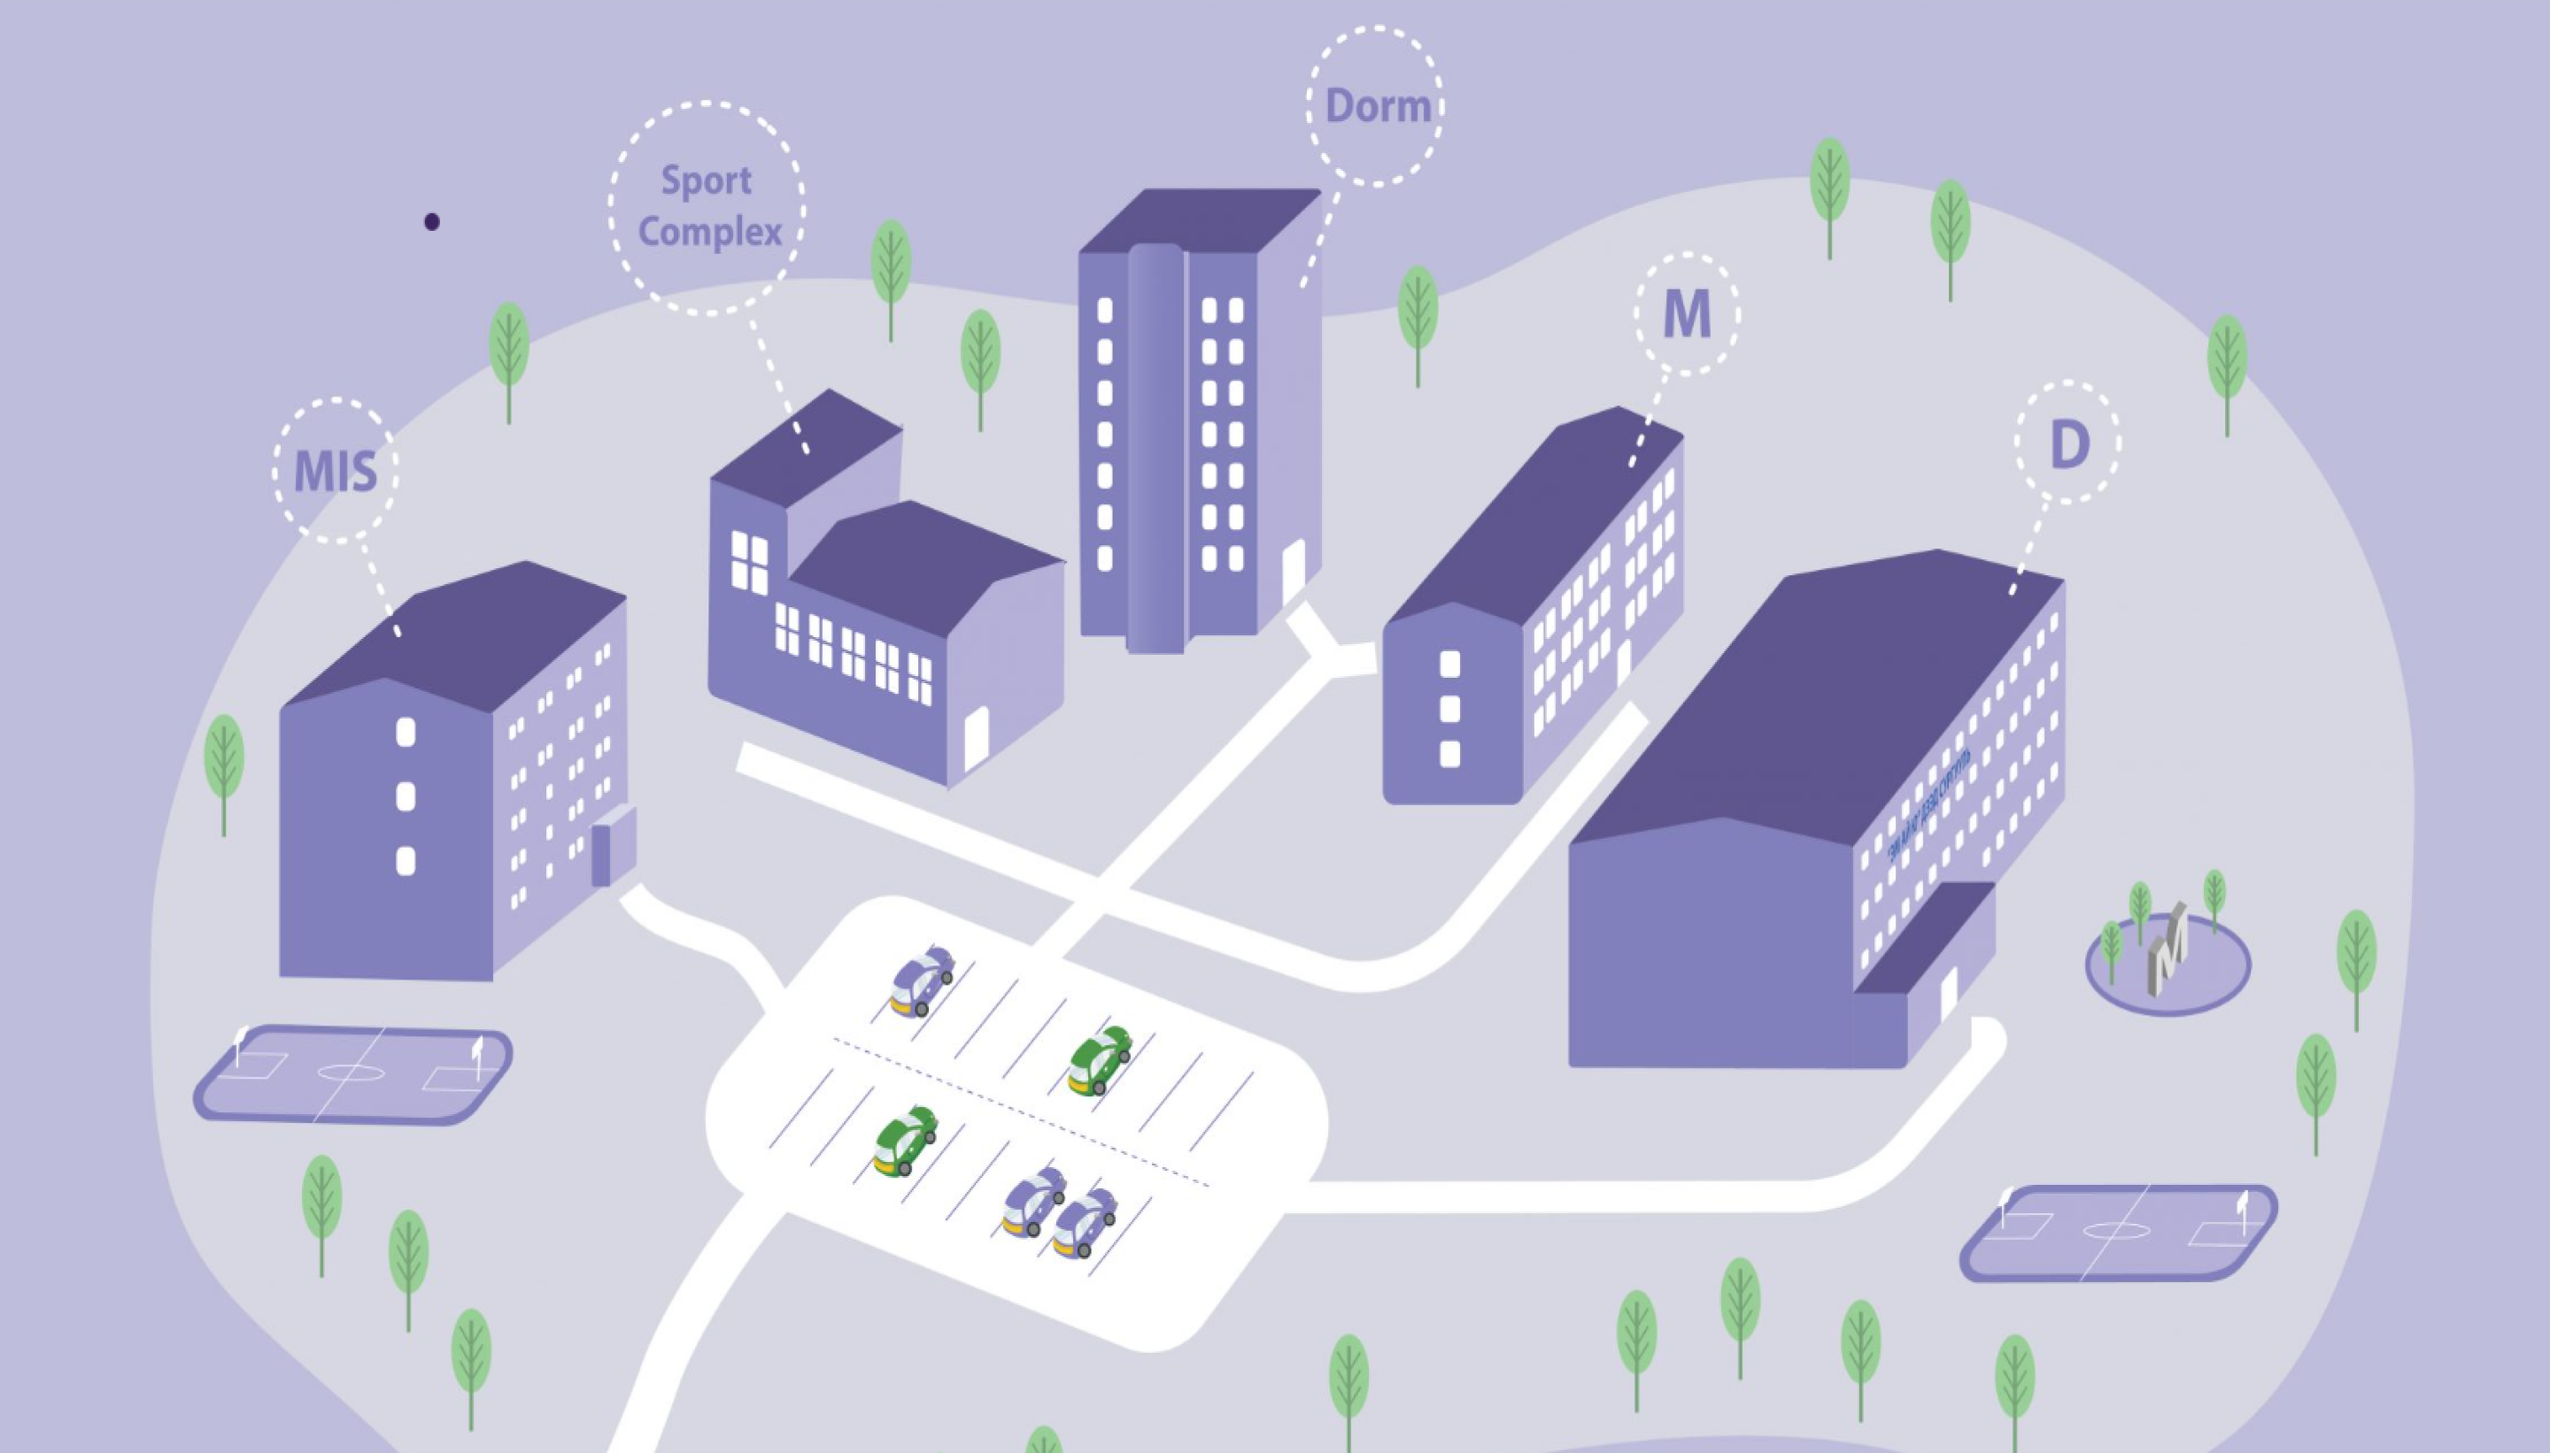
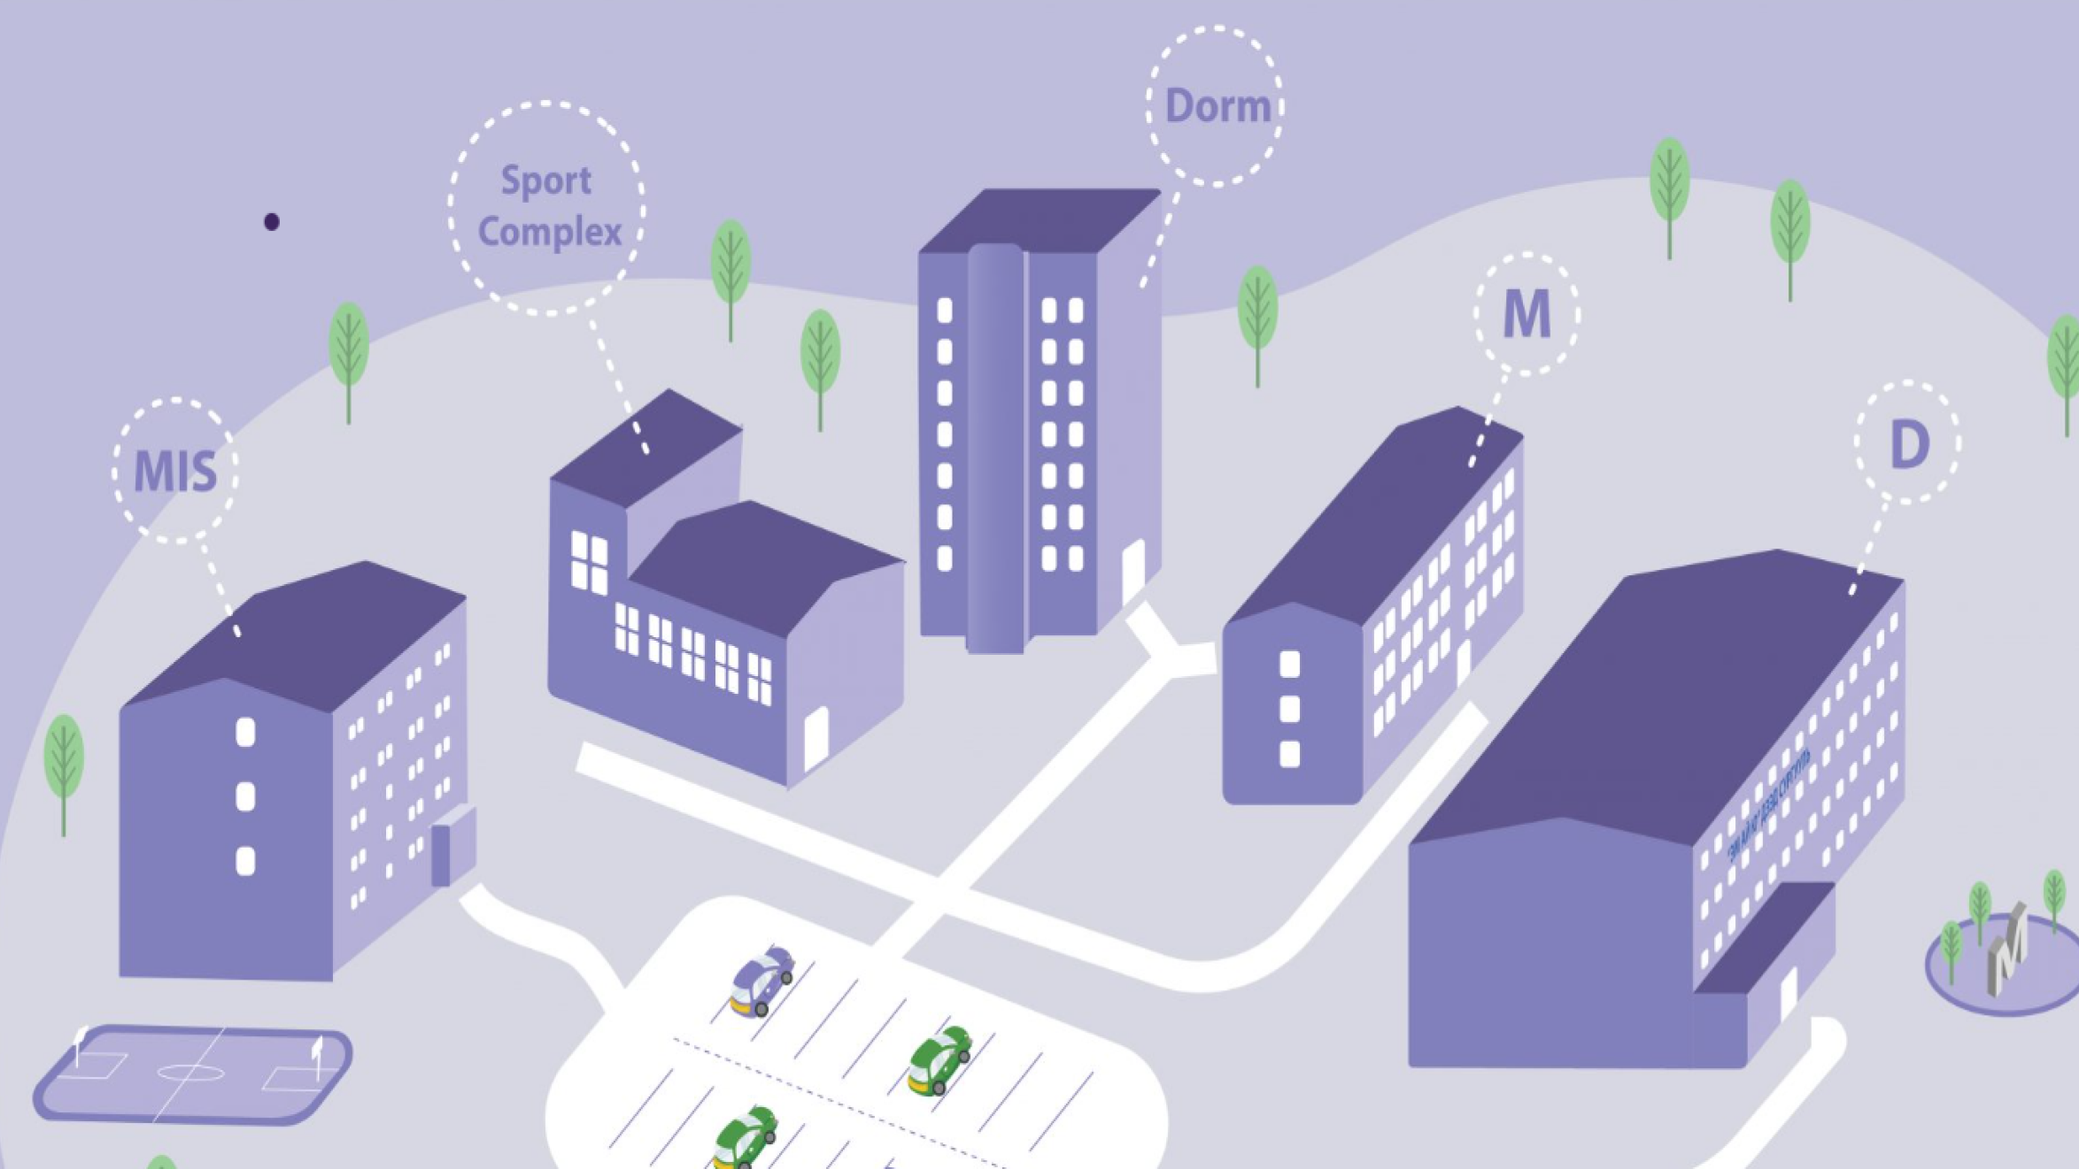
fix: map

diff --git a/src/components/Map.jsx b/src/components/Map.jsx
@@ -1,10 +1,9 @@
 import React from "react";
-import { StyleSheet, View, Image, Pressable } from "react-native";
+import { StyleSheet, View, Image, Pressable, Dimensions } from "react-native";
 import HoverCard from "./hoverCard";
 
 export default function MapComponent() {
   const [activeCard, setActiveCard] = React.useState(null);
-  //const [isHoveringCard, setIsHoveringCard] = React.useState(false);
 
   const showCardHandler = (cardId) => {
     setActiveCard(cardId);
@@ -14,159 +13,153 @@ export default function MapComponent() {
       setActiveCard(null);
     
   };
+  const windowWidth = Dimensions.get("window").width;
+  const imageHeight = (600 / 1075) * windowWidth;
 
   return (
-    <View >
-      <Image
-        source={require("../../assets/images/map.png")}
-        style={styles.image}
-      />
+      <View style={[styles.imageContainer, {width: windowWidth, height: imageHeight}]}>
+        <Image
+          source={require("../../assets/images/map.png")}
+          style={[styles.image, {height: imageHeight}]}
+          resizeMode="contain"
+        />
 
-      <Pressable
-        style={styles.overlay1}
-        onMouseEnter={() => showCardHandler(1)}
-        onMouseLeave={hideCardHandler}
-      >
-        {activeCard === 1 && (
-          <View style={styles.sport}>
-            <HoverCard
-              image={require("../../assets/images/sports.png")}
-              type={"Sport"}
-              title={"Sport Complex"}
-              button={"For More Information"}
-            >
-              The sports complex is a three-floor building currently featuring
-              a large indoor sports hall and cross-fit style gym.
-              {"\n \n \n \n"}
-              Schedule: Monday 4:00 - 6:00 pm
-              {"\n                     "}
-              Wednesday 4:00 - 6:00 pm
-              {"\n                     "}
-              Friday 4:00 - 6:00 pm
-              {"\n                     "}
+        <Pressable
+          style={[styles.overlay, styles.overlay1]}
+          onMouseEnter={() => showCardHandler(1)}
+          onMouseLeave={hideCardHandler}
+        >
+          {activeCard === 1 && (
+            <View style={styles.sport}>
+              <HoverCard
+                image={require("../../assets/images/sports.png")}
+                type={"Sport"}
+                title={"Sport Complex"}
+                button={"For More Information"}
+              >
+                The sports complex is a three-floor building currently featuring
+                a large indoor sports hall and cross-fit style gym.
+                {"\n \n \n \n"}
+                Schedule: Monday 4:00 - 6:00 pm
+                {"\n                     "}
+                Wednesday 4:00 - 6:00 pm
+                {"\n                     "}
+                Friday 4:00 - 6:00 pm
+                {"\n                     "}
+              </HoverCard>
+            </View>
+          )}
+        </Pressable>
+
+        <Pressable
+          style={[styles.overlay, styles.overlay2]}
+          onMouseEnter={() => showCardHandler(2)}
+          onMouseLeave={hideCardHandler}
+        >
+          {activeCard === 2 && (
+            <View style={styles.dorm}>
+              <HoverCard
+                image={require("../../assets/images/dorm.png")}
+                type={"Primary"}
+                title={"Dorm"}
+                button={"For More Information"}
+                button2={"Dormitory Fee"}
+              >
+                The MIU Global Residence is a seven-floor building that houses
+                both male and female students from all over the world. The first
+                four floors are dedicated to students and the 5th to 7th floors
+                are occupied by faculty and staff members. MIU Global Residence
+                a unique residence hall that offers affordable, newly furnished,
+                safe, and convenient living quarters for students. 
+              </HoverCard>
+            </View>
+          )}
+        </Pressable>
+
+        <Pressable
+          style={[styles.overlay, styles.overlay3]}
+          onMouseEnter={() => showCardHandler(3)}
+          onMouseLeave={hideCardHandler}
+        >
+          {activeCard === 3 && (
+            <View style={styles.mbld}>
+              <HoverCard
+                image={require("../../assets/images/M-bld.png")}
+                type={"Secondary"}
+                title={"M Building"}
+                button={"For More Information"}
+              >
+                Student affairs - Academic - Admission - Finance - President`s office
+                {"\n\n\n\n\n"}
+                M building texts, LEI, offices
+              </HoverCard>
+            </View>
+          )}
+        </Pressable>
+
+        <Pressable
+          style={[styles.overlay, styles.overlay4]}
+          onMouseEnter={() => showCardHandler(4)}
+          onMouseLeave={hideCardHandler}
+        >
+          {activeCard === 4 && (
+            <View style={styles.dbld}>
+              <HoverCard
+              image={require("../../assets/images/D-bld.png")}
+              type={'Secondary'}
+              title={"D building"}
+              button={"For More Information"}>
+              The MIU Global Residence is a seven-floor building that houses both 
+              male and female students from all over the world. The first four 
+              floors are dedicated to students and the 5th to 7th floors are 
+              occupied by faculty and staff members. MIU Global Residence a unique 
+              residence hall that offers affordable, newly furnished, safe, and convenient 
+              living quarters for students.
             </HoverCard>
-          </View>
-        )}
-      </Pressable>
-
-      <Pressable
-        style={styles.overlay2}
-        onMouseEnter={() => showCardHandler(2)}
-        onMouseLeave={hideCardHandler}
-      >
-        {activeCard === 2 && (
-          <View style={styles.dorm}>
-            <HoverCard
-              image={require("../../assets/images/dorm.png")}
-              type={"Primary"}
-              title={"Dorm"}
-              button={"For More Information"}
-              button2={"Dormitory Fee"}
-            >
-              The MIU Global Residence is a seven-floor building that houses
-              both male and female students from all over the world. The first
-              four floors are dedicated to students and the 5th to 7th floors
-              are occupied by faculty and staff members. MIU Global Residence
-              a unique residence hall that offers affordable, newly furnished,
-              safe, and convenient living quarters for students. 
-            </HoverCard>
-          </View>
-        )}
-      </Pressable>
-
-      <Pressable
-        style={styles.overlay3}
-        onMouseEnter={() => showCardHandler(3)}
-        onMouseLeave={hideCardHandler}
-      >
-        {activeCard === 3 && (
-          <View style={styles.mbld}>
-            <HoverCard
-              image={require("../../assets/images/M-bld.png")}
-              type={"Secondary"}
-              title={"M Building"}
-              button={"For More Information"}
-            >
-              Student affairs - Academic - Admission - Finance - President`s office
-              {"\n\n\n\n\n"}
-              M building texts, LEI, offices
-            </HoverCard>
-          </View>
-        )}
-      </Pressable>
-
-      <Pressable
-        style={styles.overlay4}
-        onMouseEnter={() => showCardHandler(4)}
-        onMouseLeave={hideCardHandler}
-      >
-        {activeCard === 4 && (
-          <View style={styles.dbld}>
-            <HoverCard
-            image={require("../../assets/images/D-bld.png")}
-            type={'Secondary'}
-            title={"D building"}
-            button={"For More Information"}>
-            The MIU Global Residence is a seven-floor building that houses both 
-            male and female students from all over the world. The first four 
-            floors are dedicated to students and the 5th to 7th floors are 
-            occupied by faculty and staff members. MIU Global Residence a unique 
-            residence hall that offers affordable, newly furnished, safe, and convenient 
-            living quarters for students.
-          </HoverCard>
-          </View>
-        )}
-      </Pressable>
-    </View>
+            </View>
+          )}
+        </Pressable>
+      </View>
   );
 }
 
 const styles = StyleSheet.create({
-  container: {
+  imageContainer:{
     flex: 1,
-    backgroundColor: "gray",
     alignItems: "center",
-    justifyContent: "center",
   },
   image: {
-    width: "100%",
-    height: 821,
+    width: '100%',
+  },
+  overlay: {
+    position: "absolute",
+    borderRadius: 10,
+    borderWidth: 1
   },
   overlay1: {
-    //borderWidth: 1,
-    width: 241,
-    height: 214,
-    borderRadius: 10,
-    position: "absolute",
-    marginLeft: 265,
-    marginTop: 45,
+    width: '15%',
+    height: '25%',
+    top: '7%',
+    left: '20%'
   },
   overlay2: {
-    //borderWidth: 1,
-    width: 248,
-    height: 191,
-    borderRadius: 10,
-    position: "absolute",
-    marginLeft: 555,
-    marginTop: 5,
+    width: '20%',
+    height: '30%',
+    top: '2%',
+    right: '38%'
+    
   },
   overlay3: {
-    //borderWidth: 1,
-    width: 146,
-    height: 181,
-    borderRadius: 10,
-    position: "absolute",
-    marginLeft: 838,
-    marginTop: 124,
+    width: '13%',
+    height: '25%',
+    top: '20%',
+    right: '23%'
   },
   overlay4: {
-    //borderWidth: 1,
-    width: 183,
-    height: 256,
-    borderRadius: 10,
-    position: "absolute",
-    marginLeft: 1029,
-    marginTop: 182,
+    width: '15%',
+    height: '35%',
+    top: '30%',
+    right: '5%',
   },
   sport: {
     top: "100%",

diff --git a/Home.js b/Home.js
@@ -38,27 +38,27 @@ const HomeScreen= ({ navigation }) =>{
           <CardButton type={"Secondary"} image={require("./assets/images/fd.png")} text={'Fashion Design'} style={{marginTop: 51}}/>
           <CardButton type={"Secondary"} image={require("./assets/images/ir.png")} text={'International Relations'} style={{marginTop: 51}}/>
         </View>
-      </View>
-      <View style={{marginTop: 137, alignItems: 'center'}}>
-        <FONT type="Title" >Our History</FONT>
-      </View>
-      <View style={{ flexDirection: 'row' }}>
-        <Image
-          source={require("./assets/images/homepage-1.png")}
-          style={styles.historyImg}
-        />
-        <View style={styles.history}> 
-          <FONT type="Body">
-            MIU was established in 2002 as a private university located in Ulaanbaatar, Mongolia.
-            With great contribution from the former president of Mongolia, Mr. Natsagiin Bagabandi, MIU received free
-            land of 17,100 ㎡ on which the first building was built. MIU distinguished itself as a prominent university
-            providing English-Speaking higher education in Central Asia. MIU currently offers 14 recognized bachelor’s
-            programs and is committed to providing a world-class education to tomorrow’s global servant leaders from Mongolia,
-            Russia, China, Republic of Korea, and other nations.
-          </FONT>
+        </View>
+        <View style={{marginTop: 137, alignItems: 'center'}}>
+          <FONT type="Title" >Our History</FONT>
+        </View>
+        <View style={{ flexDirection: 'row' }}>
+          <Image
+            source={require("./assets/images/homepage-1.png")}
+            style={styles.historyImg}
+          />
+          <View style={styles.history}> 
+            <FONT type="Body">
+              MIU was established in 2002 as a private university located in Ulaanbaatar, Mongolia.
+              With great contribution from the former president of Mongolia, Mr. Natsagiin Bagabandi, MIU received free
+              land of 17,100 ㎡ on which the first building was built. MIU distinguished itself as a prominent university
+              providing English-Speaking higher education in Central Asia. MIU currently offers 14 recognized bachelor’s
+              programs and is committed to providing a world-class education to tomorrow’s global servant leaders from Mongolia,
+              Russia, China, Republic of Korea, and other nations.
+            </FONT>
           </View>
         </View>
-        <View style={{marginTop: 288}}>
+        <View style={{marginTop: 50}}>
           <MapComponent/>
         </View>
         <View style={styles.apply}>
@@ -67,7 +67,7 @@ const HomeScreen= ({ navigation }) =>{
             <FONT type="Title2"style={{color: "#fff", textAlign: 'center', fontSize: 25}}>Are you ready to take the next step toward your future career?</FONT>
           </View>
           <Button type="Apply" text="Application Form"></Button>
-      </View>
+        </View>
     </ScrollView>
   )
 }
@@ -94,7 +94,7 @@ const styles = StyleSheet.create({
     height: 393,
     borderRadius: 10,
     marginTop: 31,
-    marginLeft: 63
+marginLeft: 63
   },
   history:{
     backgroundColor: '#EDF0FF',
@@ -112,6 +112,6 @@ const styles = StyleSheet.create({
     backgroundColor: '#FCB900',
     justifyContent: 'center',
     alignItems: 'center',
-    marginTop: 66
+marginTop: 66
   }
 });
